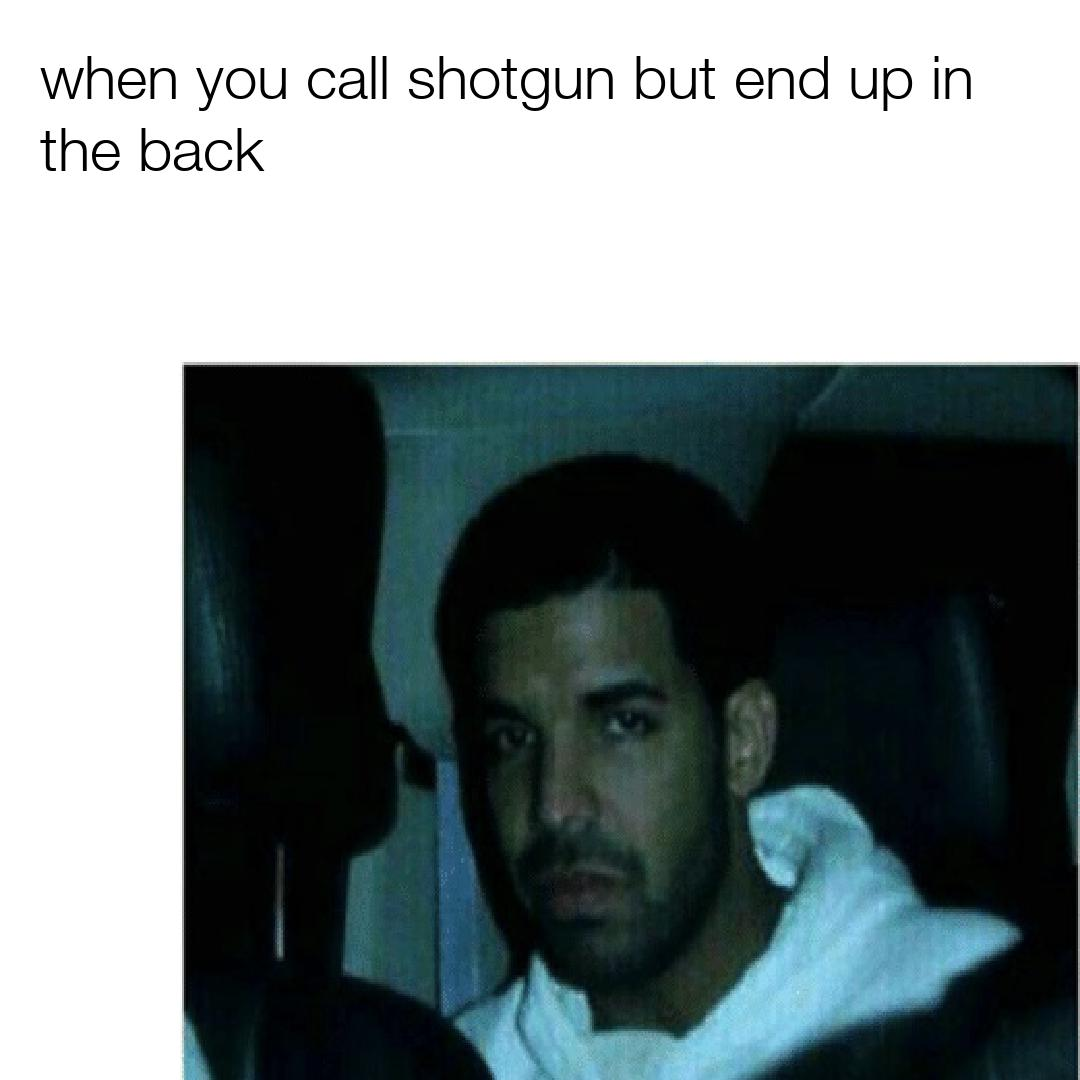
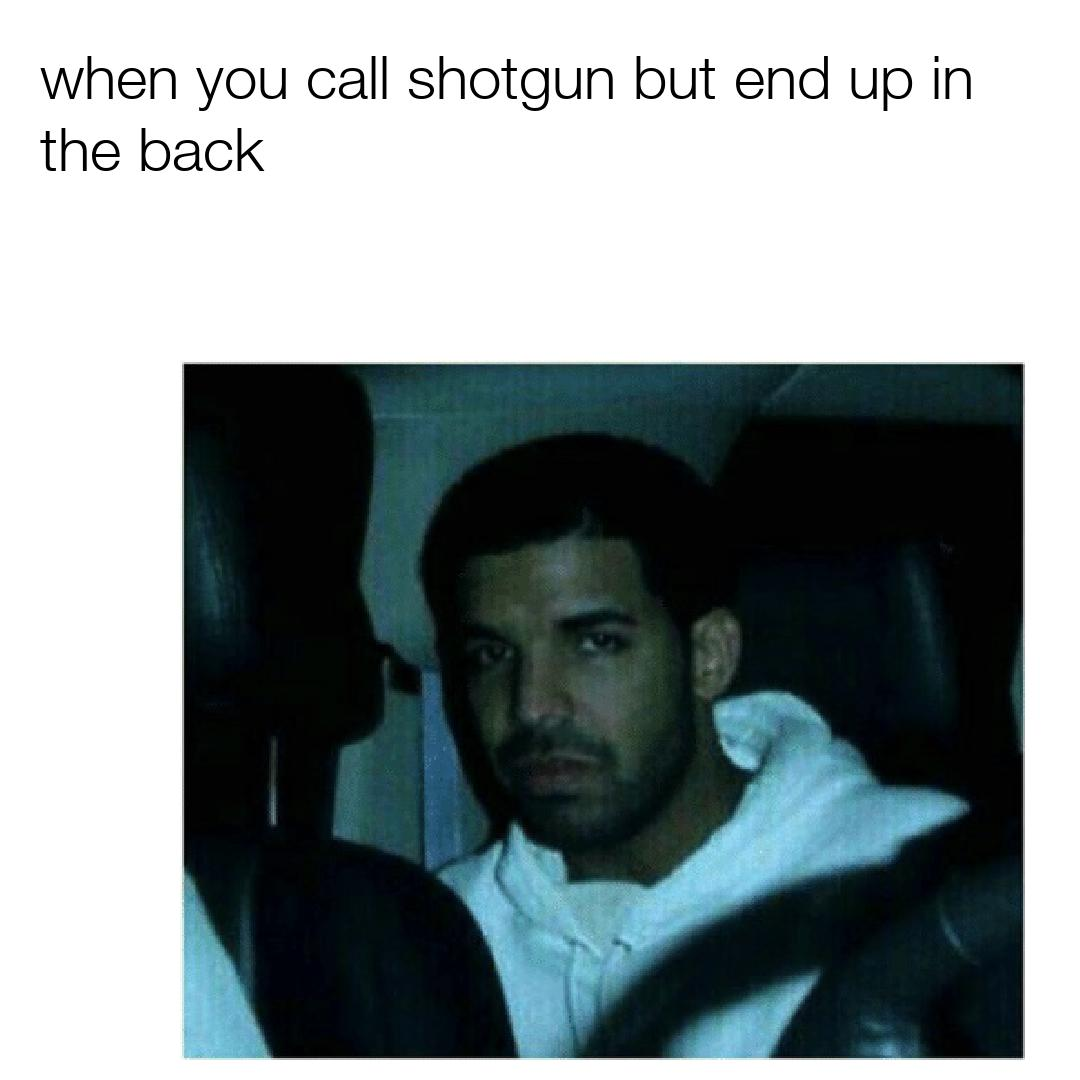
added resize_img to maintain aspect ratio

diff --git a/meme-maker.py b/meme-maker.py
@@ -2,8 +2,29 @@ import PIL
 from PIL import ImageFont
 from PIL import Image
 from PIL import ImageDraw
+import math
 import textwrap
 
+# PIL.ImageDraw.Draw.polygon(xy, fill=None, outline=None)
+
+def resize_img(image, new_width):
+	bbox = image.getbbox()
+	width  = bbox[2]
+	length = bbox[3]
+	aspect_ratio = float(width)/float(length)
+	print bbox
+	print "length: " + str(length)
+	print "width:  " + str(width)
+	print "aspect ratio: " + str(aspect_ratio) + ":1"
+
+	new_height = int(new_width * aspect_ratio)
+
+	print "new height: " + str(new_height)
+	print "new width:  " + str(new_width)
+
+	image = image.resize((new_height,new_width))
+
+	return image
 
 def read_txt_file(file_path):
 	print "Reading text file..."
@@ -15,7 +36,9 @@ def read_txt_file(file_path):
 
 def paste_pic(im_path,img):
 	pic = Image.open(im_path)
-	pic = pic.resize((900,900))
+	pic = resize_img(pic, 700)
+	# pic = pic.resize((700,700))
+	# resize_img(pic)
 	box = (180,360)
 	img.paste(pic, box=box, mask=None)
 
@@ -23,7 +46,12 @@ def place_text(img,text, draw):
 	margin = 40
 	offset = 40
 	font = ImageFont.truetype("HelveticaNeue Light.ttf",60)
-	for line in textwrap.wrap(text, width=36):
+
+	chars_per_line = float(36)
+	number_of_lines = int(math.ceil(len(text)/chars_per_line))
+	print number_of_lines
+
+	for line in textwrap.wrap(text, width=chars_per_line):
 		draw.text((margin, offset), line, font=font, fill="black")
 		offset += font.getsize(line)[1]
 
@@ -31,7 +59,7 @@ def main():
 	file_path = raw_input("text file to use: ")
 	file_path = "sample_text.txt" 	## TODO: remove line 
 	image_path = raw_input("image to use: ")
-	image_path = "sample_img.jpg" ## TODO: remove line
+	image_path = "sample_img.jpg"	## TODO: remove line
 	length = 1080 
 	width = 1080
 
